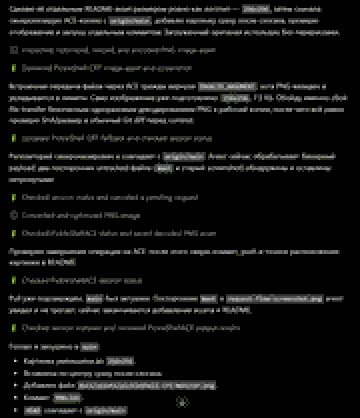
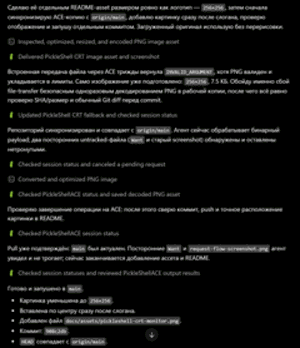
site: refine session screenshot

diff --git a/index.html b/index.html
@@ -225,7 +225,7 @@
     .purpose-text .section-lead { max-width: none; }
     .purpose-image {
       flex-shrink: 0;
-      width: 360px;
+      width: 300px;
     }
     .purpose-image img {
       width: 100%;
@@ -326,7 +326,7 @@
       .arch-arrow { transform: rotate(90deg); padding: 4px 0; }
       .seed-deco { display: none; }
       .purpose-layout { grid-template-columns: 1fr; }
-      .purpose-image { width: 100%; max-width: 360px; margin: 0 auto; }
+      .purpose-image { width: 100%; max-width: 300px; margin: 0 auto; }
     }
     @media (max-width: 540px) {
       section { padding: 56px 0; }
@@ -446,7 +446,7 @@
             <p class="section-lead">PickleShell is for developers and experienced users. Installation is designed to be guided by Codex: ask it to clone the repository, read <code>AGENTS.md</code>, and walk you through the setup step by step. <code>AGENTS.md</code> covers the architecture, installation, tunnel configuration, plugin setup, and troubleshooting.</p>
           </div>
           <div class="purpose-image">
-            <img src="pickleshell-chatgpt-session.png" alt="Compact overview of a typical PickleShell session in ChatGPT" width="360" height="418">
+            <img src="pickleshell-chatgpt-session.png" alt="Compact overview of a typical PickleShell session in ChatGPT" width="300" height="348">
             <p class="image-caption">A typical PickleShell session in ChatGPT.</p>
           </div>
         </div>
